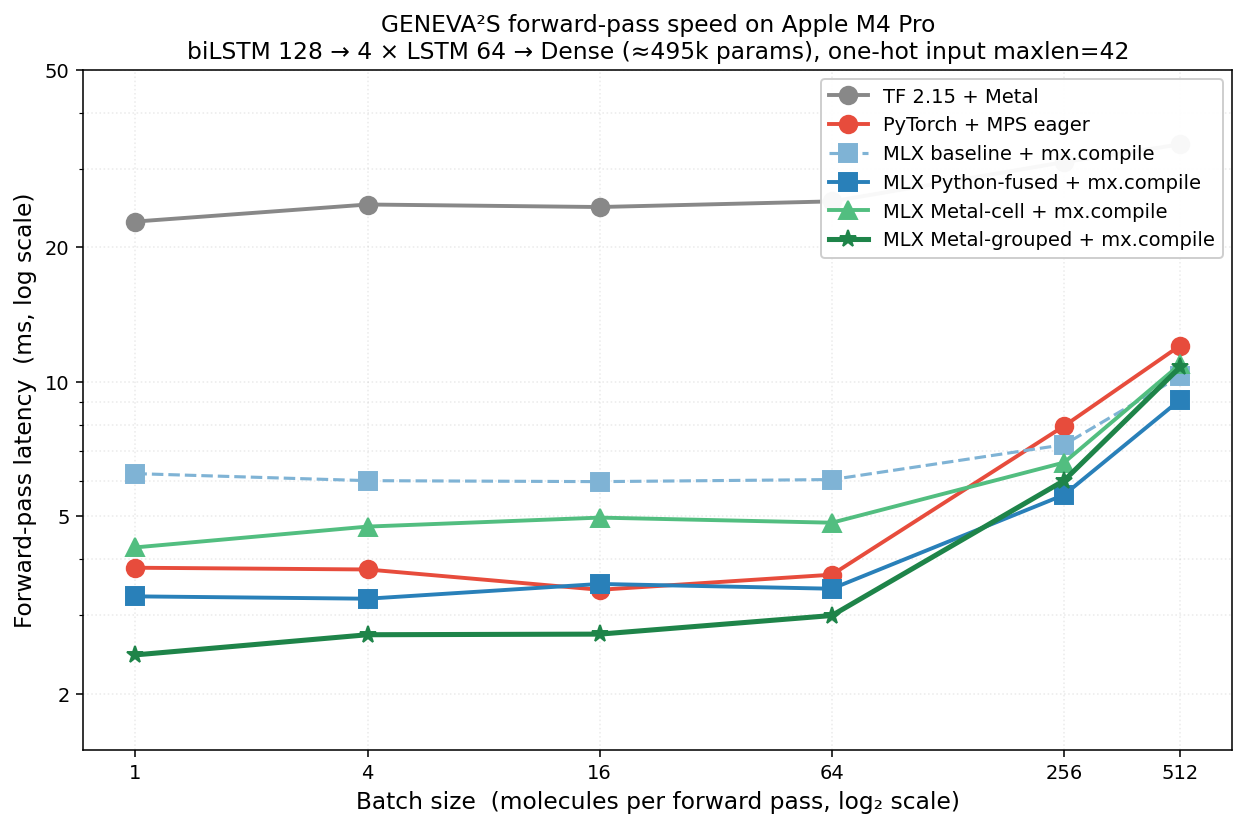
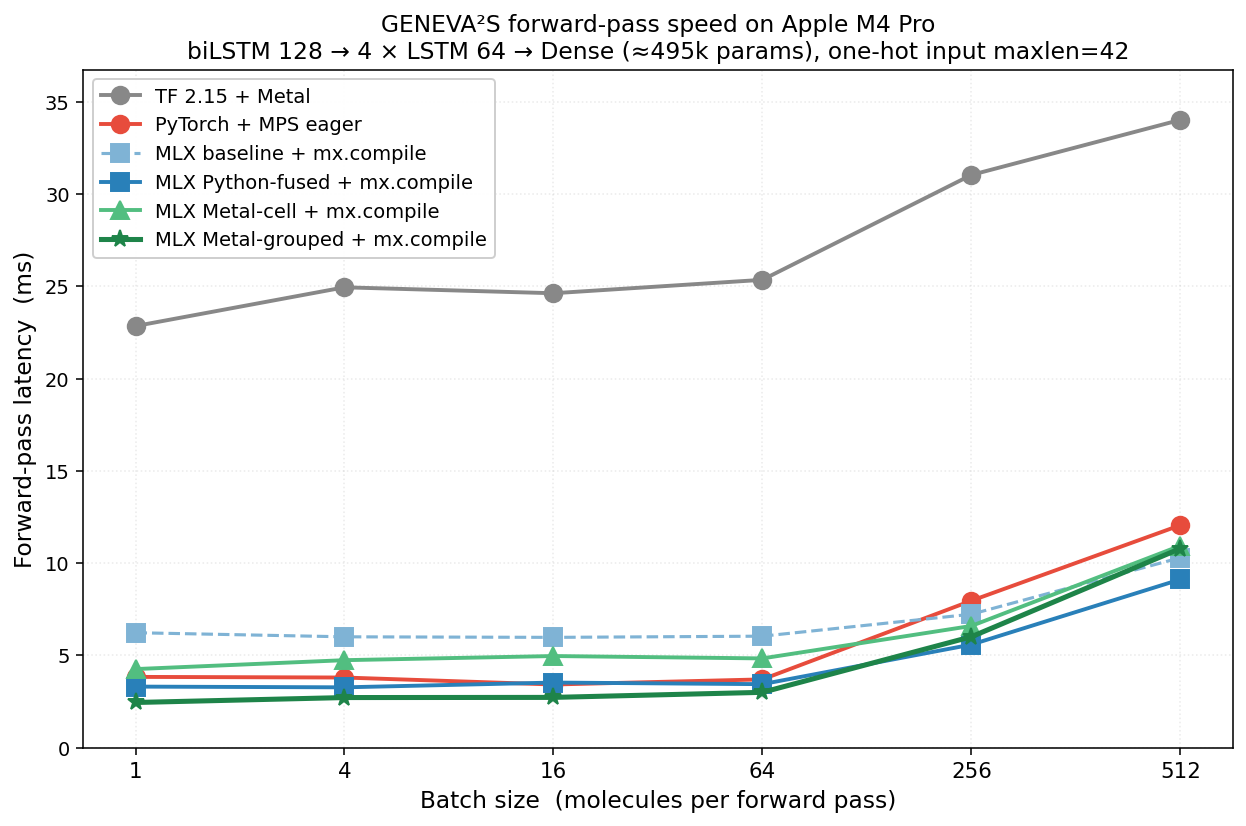
Add MLX training pipeline (fit, fit_best, save/load state)
geneva2s/mlx/train.py provides:
- fit():       Adam(lr=3e-3, eps=1e-7) + categorical CE training loop,
               matching the Keras Trainer setup byte-for-byte.
- fit_best():  same + validity-driven best-checkpoint tracking (Keras
               OnlineGenerator + restore_best_weights=True equivalent).
- save_state / load_state with three formats:
    .safetensors  MLX-native (preferred for MLX->MLX roundtrips)
    .npz          numpy archive (any framework)
    .pt           cross-loadable PyTorch state_dict format (calls
                  GenevaBiLSTM.load_state_dict)

Works with any of:
- GenevaBiLSTMMLX            (mlx.nn.LSTM, fully differentiable)
- GenevaBiLSTMMLXFused       (Python grouped LSTM, fully differentiable)
- GenevaBiLSTMMLXMetal       (custom Metal kernel + VJP via mlx-addons)

GenevaBiLSTMMLXMetalGrouped training requires a grouped VJP kernel which
is not yet shipped — flagged for the next session.

Quick training comparison (3 epochs, 500-mol subset, batch=128):
  baseline:  loss 1.63 -> 1.07,  ~10.2s/epoch
  metal:     loss 2.14 -> 1.59,   ~8.8s/epoch   (~14% faster)

Tests added: tests/test_mlx_train.py (5 passing) covers training loss
decrease for both variants + the three save/load roundtrips.

Plot fix in bench/plot_speedup.py: dropped log axes (both x and y) for
categorical x positions + linear y — same data, cleaner reading.

diff --git a/geneva2s/mlx/train.py b/geneva2s/mlx/train.py
@@ -1,0 +1,228 @@
+"""MLX training loop matching the PyTorch and Keras Trainer setup.
+
+Adam(lr=3e-3, eps=1e-7), categorical cross-entropy on next-char prediction.
+Works with any GenevaBiLSTMMLX{,Fused,Metal} model — they're all differentiable
+end-to-end (Metal variants via the VJP kernel + mx.custom_function wiring in
+mlx-addons).
+
+`fit_best` adds validity-driven best-checkpoint tracking (equivalent to the
+Keras OnlineGenerator + restore_best_weights=True callback).
+"""
+from __future__ import annotations
+
+import copy
+import os
+import time
+
+try:
+    import mlx.core as mx
+    import mlx.nn as mlxnn
+    import mlx.optimizers as optim
+except ImportError as e:
+    raise ImportError("pip install mlx") from e
+import numpy as np
+
+from ..tokenizer import CharTokenizer
+from ..utils import sanity_check
+from .generate import predict_batch_seeds
+
+
+def _loss_fn(model, x, y):
+    logits = model(x)  # (B, vocab)
+    return mlxnn.losses.cross_entropy(logits, y, reduction="mean")
+
+
+def fit(
+    model,
+    X: np.ndarray,
+    y: np.ndarray,
+    num_epochs: int = 80,
+    batch_size: int = 256,
+    lr: float = 3e-3,
+    save_path: str = None,
+    verbose: bool = True,
+):
+    """Adam training matching Keras Trainer.compile(Adam(lr=3e-3, eps=1e-7))."""
+    optimizer = optim.Adam(learning_rate=lr, eps=1e-7)
+    loss_and_grad_fn = mlxnn.value_and_grad(model, _loss_fn)
+    n = X.shape[0]
+    history = []
+    for ep in range(num_epochs):
+        t0 = time.time()
+        perm = np.random.permutation(n)
+        total, n_seen = 0.0, 0
+        for i in range(0, n, batch_size):
+            idx = perm[i:i + batch_size]
+            xb = mx.array(X[idx])
+            yb = mx.array(y[idx])
+            loss, grads = loss_and_grad_fn(model, xb, yb)
+            optimizer.update(model, grads)
+            mx.eval(model.parameters(), optimizer.state)
+            total += float(loss) * xb.shape[0]
+            n_seen += xb.shape[0]
+        avg = total / n_seen
+        history.append(avg)
+        if verbose:
+            print(f"epoch {ep:3d}: loss={avg:.4f} time={time.time() - t0:.1f}s")
+    if save_path:
+        save_state(model, save_path)
+    return history
+
+
+def fit_best(
+    model,
+    X: np.ndarray,
+    y: np.ndarray,
+    tokenizer: CharTokenizer,
+    text_for_seeds: str,
+    num_epochs: int = 80,
+    batch_size: int = 256,
+    lr: float = 3e-3,
+    check_every: int = 5,
+    ncollect_check: int = 500,
+    ncopies_check: int = 20,
+    save_path: str = None,
+    verbose: bool = True,
+):
+    """Like fit() but restores best-validity weights at the end (Keras
+    OnlineGenerator + restore_best_weights=True equivalent)."""
+    optimizer = optim.Adam(learning_rate=lr, eps=1e-7)
+    loss_and_grad_fn = mlxnn.value_and_grad(model, _loss_fn)
+    n = X.shape[0]
+    history = []
+    best_val, best_params, best_epoch = -1.0, None, -1
+
+    for ep in range(num_epochs):
+        t0 = time.time()
+        perm = np.random.permutation(n)
+        total, n_seen = 0.0, 0
+        for i in range(0, n, batch_size):
+            idx = perm[i:i + batch_size]
+            xb = mx.array(X[idx])
+            yb = mx.array(y[idx])
+            loss, grads = loss_and_grad_fn(model, xb, yb)
+            optimizer.update(model, grads)
+            mx.eval(model.parameters(), optimizer.state)
+            total += float(loss) * xb.shape[0]
+            n_seen += xb.shape[0]
+        avg = total / n_seen
+
+        msg_extra = ""
+        if (ep + 1) % check_every == 0 or ep == num_epochs - 1:
+            mols = predict_batch_seeds(
+                model, tokenizer, text_for_seeds,
+                ncollect=ncollect_check, ncopies=ncopies_check,
+            )
+            val = sum(1 for s in mols if sanity_check(s)) / max(1, len(mols))
+            history.append((ep, avg, val))
+            if val > best_val:
+                best_val, best_epoch = val, ep
+                best_params = copy.deepcopy(model.parameters())
+                msg_extra = f" valid_sc={100 * val:.1f}% NEW BEST"
+            else:
+                msg_extra = f" valid_sc={100 * val:.1f}%"
+
+        if verbose:
+            print(f"epoch {ep:3d}: loss={avg:.4f} time={time.time() - t0:.1f}s{msg_extra}")
+
+    if best_params is not None:
+        model.update(best_params)
+        if verbose:
+            print(
+                f"=== restored best weights from epoch {best_epoch}: "
+                f"sanitycheck={100 * best_val:.2f}% ==="
+            )
+
+    if save_path:
+        save_state(model, save_path)
+    return history, best_epoch, best_val
+
+
+# ============================================================================
+# State I/O — save/load model weights cross-framework
+# ============================================================================
+
+def save_state(model, path: str) -> None:
+    """Save model parameters. Format depends on extension:
+      .safetensors → MLX-native (preferred for MLX-only round-trips)
+      .npz         → numpy archive (loadable from any framework)
+      .pt          → PyTorch state_dict format (loadable by GenevaBiLSTM.load_state_dict)
+    """
+    from mlx.utils import tree_flatten
+    os.makedirs(os.path.dirname(path) or ".", exist_ok=True)
+    flat = dict(tree_flatten(model.parameters()))
+
+    if path.endswith(".safetensors"):
+        mx.save_safetensors(path, flat)
+    elif path.endswith(".npz"):
+        np.savez(path, **{k: np.array(v) for k, v in flat.items()})
+    elif path.endswith(".pt"):
+        import torch
+        sd = _mlx_to_pt_state_dict(flat, model)
+        torch.save(sd, path)
+    else:
+        raise ValueError(f"Unknown save extension for path: {path}")
+
+
+def _mlx_to_pt_state_dict(flat_params: dict, model) -> dict:
+    """Map MLX param names to PyTorch GenevaBiLSTM state_dict keys.
+
+    MLX:                                    PyTorch:
+      emb_fwd.Wx                             embedding.weight_ih_l0
+      emb_fwd.Wh                             embedding.weight_hh_l0
+      emb_fwd.bias                           embedding.bias_ih_l0 + bias_hh_l0  (split: bias_ih = full, bias_hh = 0)
+      emb_bwd.{Wx,Wh,bias}                   embedding.weight_*_reverse
+      branches.N.{Wx,Wh,bias}                branches.N.weight_*  (N=0..3)
+      head.weight                            head.weight
+      head.bias                              head.bias
+    """
+    import torch
+
+    def to_torch(arr):
+        return torch.from_numpy(np.array(arr))
+
+    sd = {}
+    H1 = model.hidden[0] if hasattr(model, "hidden") else 128
+    H2 = model.hidden[1] if hasattr(model, "hidden") else 64
+    n_branches = model.n_branches if hasattr(model, "n_branches") else 4
+
+    # biLSTM forward
+    if "emb_fwd.Wx" in flat_params:
+        sd["embedding.weight_ih_l0"] = to_torch(flat_params["emb_fwd.Wx"])
+        sd["embedding.weight_hh_l0"] = to_torch(flat_params["emb_fwd.Wh"])
+        sd["embedding.bias_ih_l0"] = to_torch(flat_params["emb_fwd.bias"])
+        sd["embedding.bias_hh_l0"] = torch.zeros(4 * H1)
+        sd["embedding.weight_ih_l0_reverse"] = to_torch(flat_params["emb_bwd.Wx"])
+        sd["embedding.weight_hh_l0_reverse"] = to_torch(flat_params["emb_bwd.Wh"])
+        sd["embedding.bias_ih_l0_reverse"] = to_torch(flat_params["emb_bwd.bias"])
+        sd["embedding.bias_hh_l0_reverse"] = torch.zeros(4 * H1)
+    # 4 branches (Module list)
+    for i in range(n_branches):
+        for src, dst in [("Wx", "weight_ih_l0"), ("Wh", "weight_hh_l0"), ("bias", "bias_ih_l0")]:
+            key = f"branches.{i}.{src}"
+            if key in flat_params:
+                sd[f"branches.{i}.{dst}"] = to_torch(flat_params[key])
+        sd[f"branches.{i}.bias_hh_l0"] = torch.zeros(4 * H2)
+    # Head
+    sd["head.weight"] = to_torch(flat_params["head.weight"])
+    sd["head.bias"] = to_torch(flat_params["head.bias"])
+    return sd
+
+
+def load_state(model, path: str) -> None:
+    """Load model parameters from .safetensors / .npz / .pt path."""
+    if path.endswith(".safetensors"):
+        weights = mx.load(path)
+        # Group by '.' to nested dict for tree_unflatten
+        from mlx.utils import tree_unflatten
+        model.update(tree_unflatten(list(weights.items())))
+    elif path.endswith(".npz"):
+        d = np.load(path)
+        from mlx.utils import tree_unflatten
+        items = [(k, mx.array(d[k])) for k in d.files]
+        model.update(tree_unflatten(items))
+    elif path.endswith(".pt"):
+        # Use the existing PT-state-dict loader on the model
+        model.load_pt_checkpoint(path)
+    else:
+        raise ValueError(f"Unknown load extension: {path}")

diff --git a/tests/test_mlx_train.py b/tests/test_mlx_train.py
@@ -1,0 +1,107 @@
+"""MLX training pipeline tests: loss decreases, save/load round-trips."""
+from __future__ import annotations
+
+from pathlib import Path
+
+import numpy as np
+import pytest
+
+mx = pytest.importorskip("mlx.core")
+pytest.importorskip("mlx.nn")
+pytest.importorskip("mlx.optimizers")
+
+from geneva2s.mlx.model import GenevaBiLSTMMLX
+from geneva2s.mlx.train import fit, load_state, save_state
+from geneva2s.tokenizer import CharTokenizer
+
+REPO_ROOT = Path(__file__).resolve().parents[1]
+DATA = REPO_ROOT / "data" / "chembl_9k_organic.smi"
+
+
[email redacted](not DATA.exists(), reason="data file not in repo")
+def test_baseline_training_loss_decreases():
+    """3-epoch training on a 500-mol subset: loss should decrease meaningfully."""
+    with open(DATA) as f:
+        raw = [line.strip() for line in f if line.strip()][:500]
+    tok = CharTokenizer()
+    text = tok.prepare_corpus(raw)
+    X, y = tok.sliding_window(text)
+    model = GenevaBiLSTMMLX(tok.vocab_size)
+    history = fit(model, X, y, num_epochs=3, batch_size=128, verbose=False)
+    assert len(history) == 3
+    # loss should be lower at end than start
+    assert history[-1] < history[0], f"loss did not decrease: {history}"
+
+
+def test_save_load_roundtrip_safetensors(tmp_path):
+    """save_state → load_state via .safetensors round-trip preserves outputs."""
+    tok = CharTokenizer()
+    model = GenevaBiLSTMMLX(tok.vocab_size)
+    rng = np.random.RandomState(0)
+    x = mx.array(rng.randint(0, tok.vocab_size, (4, 42)).astype(np.int32))
+    o1 = np.array(model(x)); mx.eval(o1)
+
+    path = tmp_path / "ckpt.safetensors"
+    save_state(model, str(path))
+    model2 = GenevaBiLSTMMLX(tok.vocab_size)
+    load_state(model2, str(path))
+    o2 = np.array(model2(x)); mx.eval(o2)
+    assert np.allclose(o1, o2, atol=1e-6), \
+        f"safetensors round-trip diff: {np.abs(o1 - o2).max()}"
+
+
+def test_save_load_roundtrip_npz(tmp_path):
+    """save_state → load_state via .npz round-trip preserves outputs."""
+    tok = CharTokenizer()
+    model = GenevaBiLSTMMLX(tok.vocab_size)
+    rng = np.random.RandomState(0)
+    x = mx.array(rng.randint(0, tok.vocab_size, (4, 42)).astype(np.int32))
+    o1 = np.array(model(x)); mx.eval(o1)
+
+    path = tmp_path / "ckpt.npz"
+    save_state(model, str(path))
+    model2 = GenevaBiLSTMMLX(tok.vocab_size)
+    load_state(model2, str(path))
+    o2 = np.array(model2(x)); mx.eval(o2)
+    assert np.allclose(o1, o2, atol=1e-6), \
+        f"npz round-trip diff: {np.abs(o1 - o2).max()}"
+
+
+def test_save_state_pt_format(tmp_path):
+    """save_state with .pt extension produces a PyTorch-loadable state_dict."""
+    torch = pytest.importorskip("torch")
+    from geneva2s.torch.model import GenevaBiLSTM
+
+    tok = CharTokenizer()
+    mlx_model = GenevaBiLSTMMLX(tok.vocab_size)
+    path = tmp_path / "from_mlx.pt"
+    save_state(mlx_model, str(path))
+
+    # Should load cleanly into the PyTorch GenevaBiLSTM
+    pt_model = GenevaBiLSTM(tok.vocab_size, init_keras=False)
+    sd = torch.load(str(path), map_location="cpu", weights_only=True)
+    pt_model.load_state_dict(sd, strict=True)
+
+
+# mlx-addons is optional — only test metal training if importable
+try:
+    from mlx_addons.recurrent import MetalLSTM  # noqa
+    _HAS_MLX_ADDONS = True
+except ImportError:
+    _HAS_MLX_ADDONS = False
+
+
[email redacted](not (_HAS_MLX_ADDONS and DATA.exists()),
+                    reason="mlx-addons not installed or no data")
+def test_metal_training_loss_decreases():
+    """3-epoch training through MetalLSTM (using the VJP kernel)."""
+    from geneva2s.mlx.model import GenevaBiLSTMMLXMetal
+    with open(DATA) as f:
+        raw = [line.strip() for line in f if line.strip()][:500]
+    tok = CharTokenizer()
+    text = tok.prepare_corpus(raw)
+    X, y = tok.sliding_window(text)
+    model = GenevaBiLSTMMLXMetal(tok.vocab_size)
+    history = fit(model, X, y, num_epochs=3, batch_size=128, verbose=False)
+    assert len(history) == 3
+    assert history[-1] < history[0], f"metal loss did not decrease: {history}"

diff --git a/bench/plot_speedup.py b/bench/plot_speedup.py
@@ -106,23 +106,28 @@ def make_plot(data, batch_sizes, out_path):
         ax.plot(batch_sizes, [1000 * y for y in ys], color=color, marker=marker,
                 linestyle=ls, linewidth=lw, markersize=9, label=label)
 
-    ax.set_xscale("log", base=2)
-    ax.set_yscale("log")
-    ax.set_xticks(batch_sizes)
-    ax.set_xticklabels([str(b) for b in batch_sizes])
-    yt = [1, 2, 5, 10, 20, 50]
-    ax.set_yticks(yt)
-    ax.set_yticklabels([str(v) for v in yt])
-    ax.set_xlabel("Batch size  (molecules per forward pass, log₂ scale)", fontsize=12)
-    ax.set_ylabel("Forward-pass latency  (ms, log scale)", fontsize=12)
+    # Use categorical x positions (evenly spaced) so small batches don't get squashed
+    xpos = list(range(len(batch_sizes)))
+    fig.clf()
+    fig, ax = plt.subplots(figsize=(9, 6), dpi=140)
+    for label, ys, color, marker, ls, lw in series:
+        if ys is None:
+            continue
+        ax.plot(xpos, [1000 * y for y in ys], color=color, marker=marker,
+                linestyle=ls, linewidth=lw, markersize=9, label=label)
+
+    ax.set_xticks(xpos)
+    ax.set_xticklabels([str(b) for b in batch_sizes], fontsize=11)
+    ax.set_xlabel("Batch size  (molecules per forward pass)", fontsize=12)
+    ax.set_ylabel("Forward-pass latency  (ms)", fontsize=12)
     ax.set_title(
         "GENEVA²S forward-pass speed on Apple M4 Pro\n"
         "biLSTM 128 → 4 × LSTM 64 → Dense (≈495k params), one-hot input maxlen=42",
         fontsize=12,
     )
-    ax.grid(True, which="both", alpha=0.25, linestyle=":")
-    ax.legend(loc="upper right", fontsize=10, framealpha=0.95)
-    ax.set_ylim(1.5, 50)
+    ax.grid(True, alpha=0.25, linestyle=":")
+    ax.legend(loc="upper left", fontsize=10, framealpha=0.95)
+    ax.set_ylim(0, max([1000 * y for ys in data.values() if ys for y in ys]) * 1.08)
     fig.tight_layout()
     fig.savefig(out_path, dpi=140, bbox_inches="tight")
     print(f"saved → {out_path}")